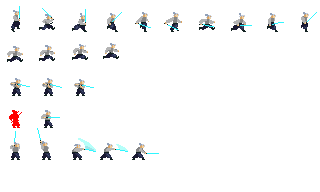
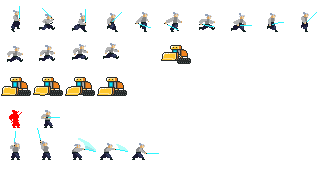
änderungen.

Changed region(s): [[0.0, 0.375, 0.4062, 0.5], [0.5, 0.2188, 0.5938, 0.3438]]

diff --git a/game/enemies/drone.py b/game/enemies/drone.py
@@ -1,3 +1,4 @@
+import math
 import pygame
 from game.enemies.enemy_registry import register_enemy
 from game.entities import Entity
@@ -15,60 +16,93 @@ class Drone(Entity):
         self.kb_y = 2
         self.detection_range = 12 * level.tile_size
 
-        # Pathfinding smoothing
         self.direction = pygame.Vector2(0, 0)
         self.smoothing = 0.2
+        self.rotation_angle = 0
+
+        # Attack logic
+        self.charge_cooldown = 0
+        self.charge_duration = 0
+        self.windup_timer = 0
+        self.in_charge = False
+
+        # Behavior tweaks
+        self.overhead_offset = -40  # Hover height above player
+        self.attack_range = 30      # Vertical trigger range to drop
 
     def update(self, level, dt):
         distance = pygame.Vector2(self.rect.center).distance_to(self.player.rect.center)
 
-        if distance < self.detection_range and not self.stun:
-            self.chase_player(dt)
+        if self.charge_cooldown > 0:
+            self.charge_cooldown -= 1
+
+        if self.in_charge:
+            self.charge_duration -= 1
+            if self.charge_duration <= 0:
+                self.in_charge = False
+                self.velocity = pygame.Vector2(0, 0)
+        elif distance < self.detection_range and not self.stun:
+            self.smart_chase(dt)
             self.state = "run"
         else:
+            self.velocity *= 0.9  # slow down
             self.state = "idle"
 
-        # Directional flip
-        if self.velocity.x > 0:
-            self.facing_right = True
-        elif self.velocity.x < 0:
-            self.facing_right = False
+        # Rotation toward player (limited to slight tilts)
+        dx = self.player.rect.centerx - self.rect.centerx
+        max_angle = 20
+        self.rotation_angle = max(-max_angle, min(max_angle, dx * 0.1))
+
+        # Directional flip (for animation)
+        self.facing_right = dx >= 0
 
         super().update(level, dt)
 
-        # Check for collision with player
+        # Attack check
         if self.rect.colliderect(self.player.rect):
             self.attack()
 
-    def chase_player(self, dt):
-        """Make drone hover toward the player's head, adjust if blocked."""
+    def smart_chase(self, dt):
+        """Drone tries to maintain high ground and attack if possible."""
+        player_head = pygame.Vector2(self.player.rect.centerx, self.player.rect.top)
+        drone_pos = pygame.Vector2(self.rect.centerx, self.rect.centery)
 
-        # 🎯 Target = Player's head (centerx, top)
-        target = pygame.Vector2(self.player.rect.centerx, self.player.rect.top)
-        current = pygame.Vector2(self.rect.centerx, self.rect.centery)
+        to_target = (player_head + pygame.Vector2(0, self.overhead_offset)) - drone_pos
+        dist_to_player = drone_pos.distance_to(player_head)
 
-        direction = (target - current)
+        # Charge logic
+        vertical_aligned = abs(self.rect.centerx - self.player.rect.centerx) < 10
+        should_charge = dist_to_player < 100 and vertical_aligned and self.charge_cooldown == 0
 
-        # Detect if we're stuck (not moving for a while)
-        if direction.length_squared() < 1:
-            self.velocity.x = 0
-            self.velocity.y = 0
-            return
+        if should_charge:
+            if self.windup_timer < 20:
+                self.windup_timer += 1
+                self.velocity *= 0.95  # pause before charge
+            else:
+                self.in_charge = True
+                self.charge_duration = 20
+                self.charge_cooldown = 90
+                self.windup_timer = 0
 
-        # Normalize and apply smoothing
-        direction = direction.normalize()
-        self.direction = self.direction.lerp(direction, self.smoothing)
+                charge_vector = (player_head - drone_pos).normalize()
+                self.velocity = charge_vector * (self.speed * 2)
+        else:
+            # Smooth flight above player
+            if to_target.length_squared() > 4:
+                to_target = to_target.normalize()
+                self.direction = self.direction.lerp(to_target, self.smoothing)
 
-        # Set velocity
-        base_speed = self.speed * dt
-        self.velocity.x = self.direction.x * base_speed
-        self.velocity.y = self.direction.y * base_speed
+            base_speed = self.speed * dt
+            self.velocity.x = self.direction.x * base_speed
 
-        # If stuck at wall, add vertical bias to move up/down around it
-        probe_rect = self.rect.move(self.velocity.x * 2, self.velocity.y * 2)
-        if any(probe_rect.colliderect(tile.rect) for tile in self.level.get_solid_tiles_near(self)):
-            # Try to nudge up or down to escape
-            self.velocity.y += (-1 if self.rect.centery > self.player.rect.centery else 1) * base_speed * 0.5
+            # Stay slightly higher unless aligned
+            if vertical_aligned:
+                self.velocity.y = self.direction.y * base_speed
+            else:
+                if self.rect.centery > player_head.y + self.overhead_offset:
+                    self.velocity.y = -base_speed * 0.6
+                else:
+                    self.velocity.y = 0
 
     def attack(self):
         self.player.hit(self)
@@ -76,3 +110,19 @@ class Drone(Entity):
     def eliminate(self):
         print("Drone eliminated")
         self.kill()
+
+    def render(self, screen, camera):
+        """Render the drone with visual rotation, but keep hitbox unchanged."""
+        render_pos = camera.apply(self)
+        image = self.image
+
+        # Rotate only the image
+        rotated_image = pygame.transform.rotate(image, self.rotation_angle)
+        rotated_rect = rotated_image.get_rect(center=(render_pos[0] + self.render_offset[0] + image.get_width() // 2,
+                                                      render_pos[1] + self.render_offset[1] + image.get_height() // 2))
+
+        # Draw rotated image
+        screen.blit(rotated_image, rotated_rect.topleft)
+
+        # Optional: Draw hitbox (collision box)
+        pygame.draw.rect(screen, (255, 0, 0), camera.apply(self), 1)

diff --git a/game/levels.py b/game/levels.py
@@ -91,8 +91,8 @@ class Level(pygame.sprite.LayeredUpdates):
 
                 if tile.update_required:
                     self.updating_tiles.add(tile)
-
-                self.tile_grid[y][x] = tile
+                if tile.solid:
+                    self.tile_grid[y][x] = tile
 
                 self.width = max(self.width, (x + 1) * self.tile_size)
                 self.height = max(self.height, (y + 1) * self.tile_size)
@@ -103,7 +103,7 @@ class Level(pygame.sprite.LayeredUpdates):
                 enemy.set_level(self)
 
     def get_tile_at(self, x, y):
-        """Returns the tile at the given world coordinate (x, y)."""
+        """Returns the tile at the given world coordinate in pixel (x, y)."""
         grid_x = int(x // self.tile_size)
         grid_y = int(y // self.tile_size)
         if 0 <= grid_x < self.grid_width and 0 <= grid_y < self.grid_height:

diff --git a/game/entities.py b/game/entities.py
@@ -209,8 +209,11 @@ class Entity(pygame.sprite.Sprite):
         self.stun = 20
         self.health -= attacker.damage
 
-        knockback_x = attacker.kb_x if self.rect.x > attacker.rect.x else -attacker.kb_x
-        knockback_y = attacker.kb_y if self.is_flipped else -attacker.kb_y
+        kb_x = getattr(attacker, "kb_x", 3)
+        kb_y = getattr(attacker, "kb_y", 2)
+
+        knockback_x = kb_x if self.rect.x > attacker.rect.x else -kb_x
+        knockback_y = kb_y if self.is_flipped else -kb_y
 
         self.velocity.x = knockback_x
         self.velocity.y = knockback_y
